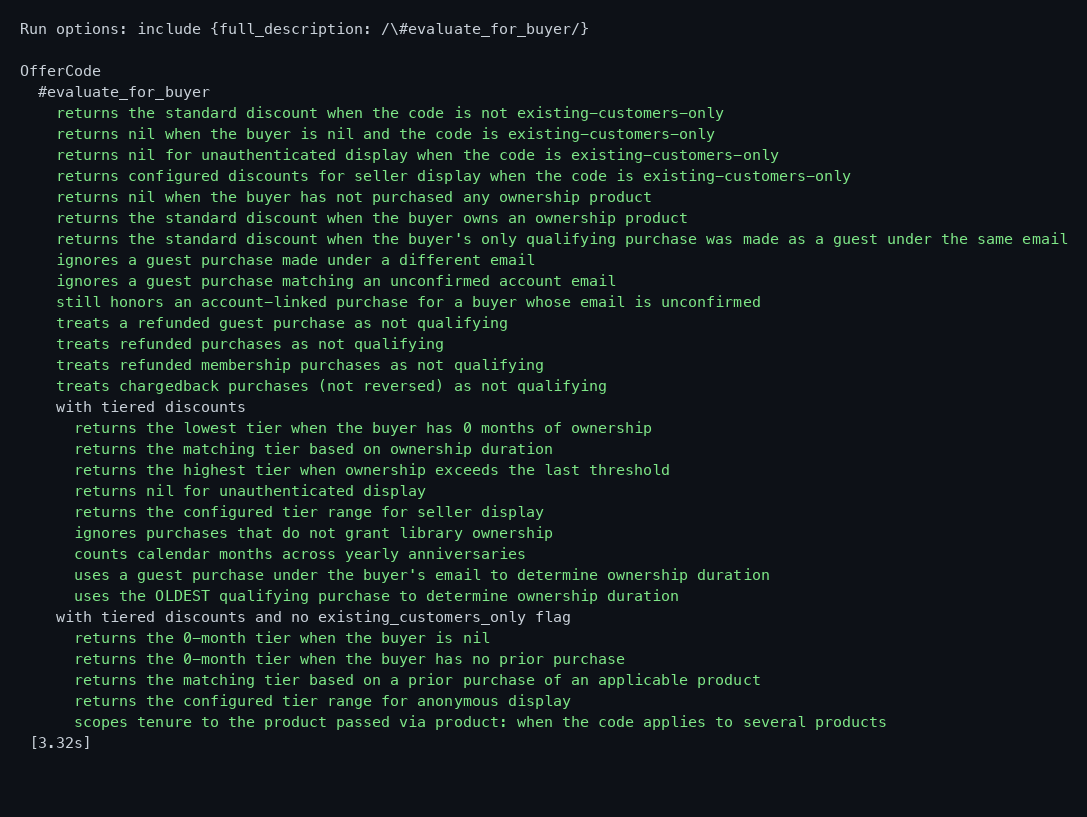
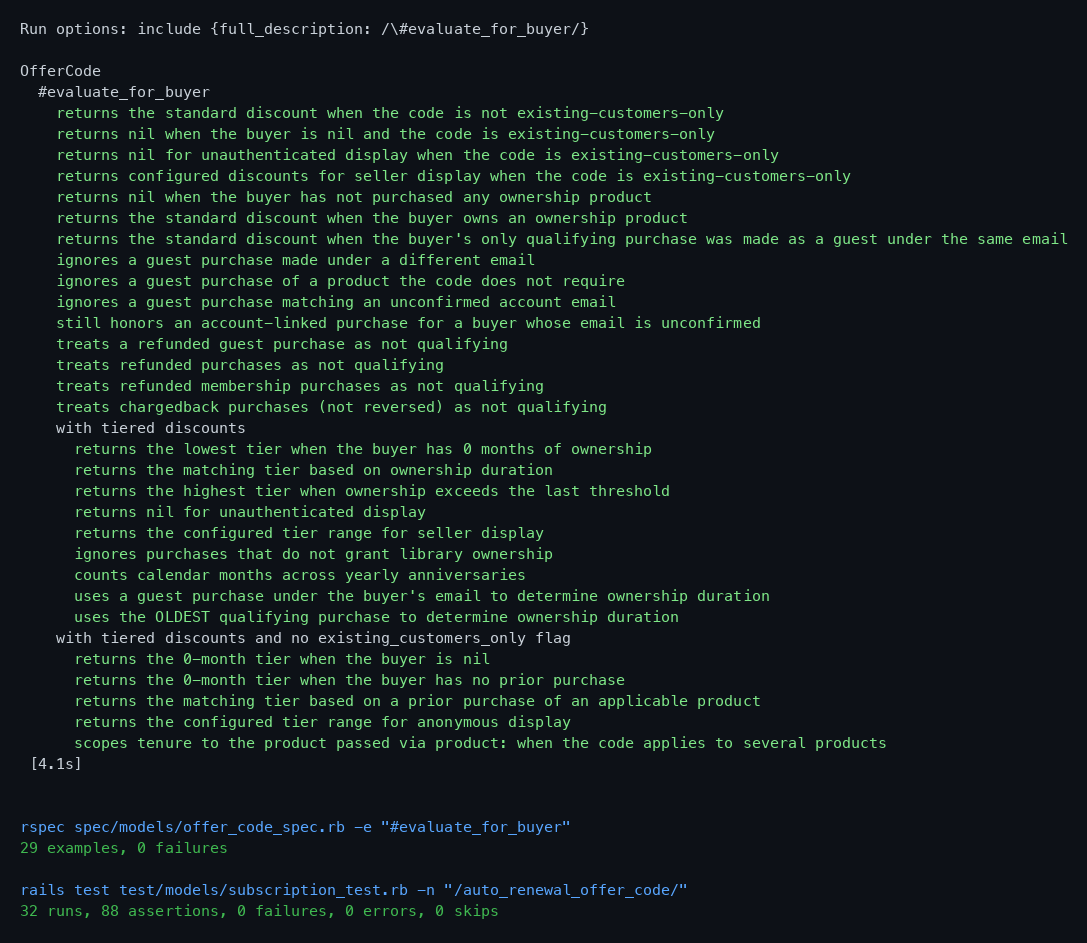
Cover renewal and scoping cases for guest-purchase discount eligibility
Adds the cases the pre-merge review flagged as uncovered: subscription
auto-renewal resolving the ownership tier from a guest purchase under the
subscriber's confirmed email (and not from a different email), a guest
purchase of a product the code does not require, and the end-to-end
product-page flow for a guest-email match.

Also corrects the comment in ownership_months_for: this path is stricter
than the community-access query it points at, since the not_* scopes drop
refunded, charged-back, gifted and access-revoked purchases.

diff --git a/test/models/subscription_test.rb b/test/models/subscription_test.rb
@@ -4344,6 +4344,25 @@ class SubscriptionTest < ActiveSupport::TestCase
     assert_equal 50, auto.resolved_percent
   end
 
+  test "#auto_renewal_offer_code counts a guest purchase under the subscriber's confirmed email toward the ownership tier" do
+    auto_renewal_context
+    # Detach the membership purchase from the account so the only thing linking
+    # the subscriber to the product is the checkout email, the way a guest
+    # checkout leaves it until the buyer claims the purchase.
+    @arc_subscription.original_purchase.update!(purchaser_id: nil, email: @arc_buyer.email)
+
+    auto = Subscription.find(@arc_subscription.id).auto_renewal_offer_code
+    assert_equal @arc_tiered_code, auto.offer_code
+    assert_equal 50, auto.resolved_percent
+  end
+
+  test "#auto_renewal_offer_code ignores a guest purchase under a different email" do
+    auto_renewal_context
+    @arc_subscription.original_purchase.update!(purchaser_id: nil, email: "not-the-subscriber@example.com")
+
+    assert_nil Subscription.find(@arc_subscription.id).auto_renewal_offer_code
+  end
+
   test "#auto_renewal_offer_code ignores universal renewal discounts that exclude the product" do
     auto_renewal_context
     @arc_tiered_code.mark_deleted!

diff --git a/app/models/offer_code.rb b/app/models/offer_code.rb
@@ -274,9 +274,12 @@ class OfferCode < ApplicationRecord
   # A purchase belongs to a buyer either because it is attached to their account
   # (purchases.purchaser_id) or because they bought it as a guest, in which case
   # the purchase only carries the checkout email and purchaser_id stays NULL
-  # until the buyer claims it. Both count as ownership here, matching how the
-  # buyer's library and community access already resolve their purchases
-  # (User#accessible_communities_ids does the same purchaser_id-OR-email match).
+  # until the buyer claims it. Both count as ownership here, resolved the same
+  # way the buyer's library and community access resolve it — purchaser_id OR
+  # the account email (see User#accessible_communities_ids). This path stays
+  # stricter about which purchases qualify: the not_* scopes below drop refunded,
+  # charged-back, gifted and access-revoked purchases, which the community query
+  # does not do.
   #
   # The email leg requires a confirmed account email: an unconfirmed address has
   # not been proven to belong to the signed-in user, so trusting it would let

diff --git a/spec/requests/purchases/product/existing_customer_offer_codes_spec.rb b/spec/requests/purchases/product/existing_customer_offer_codes_spec.rb
@@ -52,6 +52,24 @@ describe("Ownership-based offer codes from product page", type: :system, js: tru
       expect_discount_banner(percent: 20, discounted_price: 24)
     end
 
+    it "applies the discount when the buyer's qualifying purchase was a guest checkout under their account email" do
+      create(:offer_code,
+             user: seller,
+             products: [target_product],
+             ownership_products: [ownership_product],
+             existing_customers_only: true,
+             amount_cents: nil,
+             amount_percentage: 20,
+             code: "loyal20")
+      buyer = create(:user)
+      create(:purchase, purchaser: nil, email: buyer.email, link: ownership_product, seller:, price_cents: 0)
+
+      login_as buyer
+      visit "#{target_product.long_url}/loyal20"
+
+      expect_discount_banner(percent: 20, discounted_price: 24)
+    end
+
     it "applies the matching tier percentage when the buyer's ownership duration crosses a threshold" do
       create(:tiered_offer_code, :for_existing_customers,
              user: seller,

diff --git a/spec/models/offer_code_spec.rb b/spec/models/offer_code_spec.rb
@@ -1114,6 +1114,14 @@ describe OfferCode do
       expect(offer_code.evaluate_for_buyer(buyer)).to be_nil
     end
 
+    it "ignores a guest purchase of a product the code does not require" do
+      other_product = create(:product, user: seller, price_cents: 500)
+      offer_code = create(:offer_code, :for_existing_customers, products: [@product], amount_cents: nil, amount_percentage: 30, currency_type: nil, user: seller)
+      create(:purchase, purchaser: nil, email: buyer.email, link: other_product, seller:, price_cents: other_product.price_cents)
+
+      expect(offer_code.evaluate_for_buyer(buyer)).to be_nil
+    end
+
     it "ignores a guest purchase matching an unconfirmed account email" do
       unconfirmed_buyer = create(:unconfirmed_user)
       offer_code = create(:offer_code, :for_existing_customers, products: [@product], amount_cents: nil, amount_percentage: 30, currency_type: nil, user: seller)
